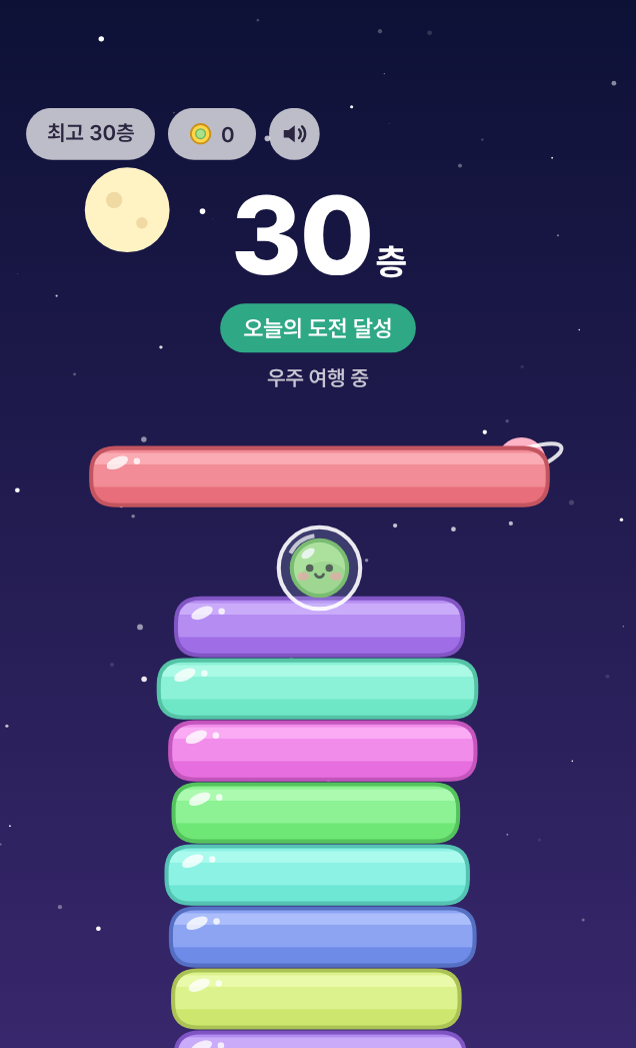
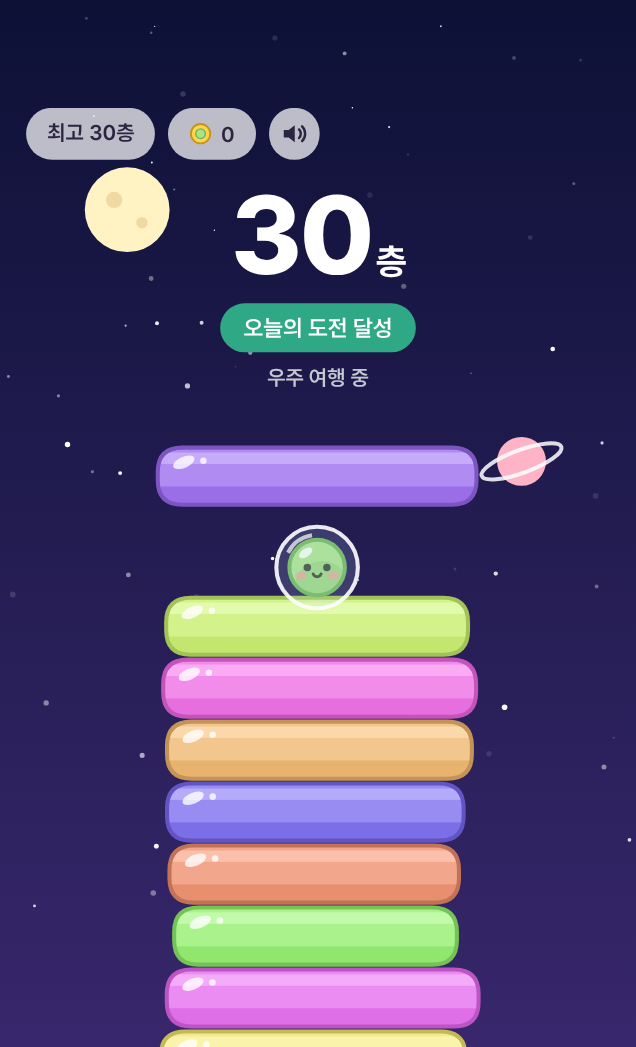
작은 화면에서 카드가 상단바를 가리던 문제 수정, 등록 스크린샷 갱신
Claude-Session: https://claude.ai/code/session_01HAryo8BdeanCWNXRxYGU2m

diff --git a/src/index.css b/src/index.css
@@ -552,3 +552,54 @@ button:focus-visible {
 .streak-bonus b {
   color: #c9921a;
 }
+
+/* 카드가 왼쪽 위 상단바(최고 기록·코인·소리)를 가리지 않게 */
+.sheet {
+  padding: calc(58px + var(--safe-top)) 16px 16px;
+  overflow-y: auto;
+}
+
+/* 키가 작은 화면에서는 카드를 조금 촘촘하게 */
+@media (max-height: 720px) {
+  .card {
+    padding: 20px 18px 18px;
+    gap: 10px;
+  }
+
+  .card h1 {
+    font-size: 32px;
+  }
+
+  .card h2 {
+    font-size: 24px;
+  }
+
+  .lead {
+    font-size: 14px;
+    line-height: 1.45;
+  }
+
+  .big {
+    font-size: 64px;
+  }
+
+  .stat {
+    padding: 8px 4px;
+  }
+}
+
+@media (max-height: 720px) {
+  .shop-preview canvas {
+    width: 80px !important;
+    height: 80px !important;
+  }
+
+  .card.shop {
+    gap: 8px;
+    padding: 16px 14px 12px;
+  }
+
+  .card.shop .grid {
+    min-height: 96px;
+  }
+}

diff --git a/docs/PROGRESS.md b/docs/PROGRESS.md
@@ -17,6 +17,9 @@
 - **연속 출석 보상**: 그날 처음 플레이할 때 연속 3일째 +10, 7일마다 +30. 시작 화면에 다음 보상(예: 연속 14일째 +30), 결과 화면에 받은 보너스 표시.
 - **0층 판은 코인 판으로 세지 않음**: 시작하자마자 실수로 끝난 판 때문에 하루 2판이 줄지 않게.
 - **살 수 있는 꾸미기 표시**: 코인으로 살 수 있는 새 물건이 있으면 '꾸미기' 버튼에 빨간 점.
+- **작은 화면 레이아웃**: 키 작은 폰(높이 720px 이하)에서 시작 카드가 상단바(최고 기록·코인·소리)를 가리던 문제 수정.
+  카드를 상단바 아래에서 시작하게 하고 글자·여백을 줄임. 꾸미기 화면도 미리보기를 줄여 닫기 버튼까지 보이게.
+- 등록 스크린샷 5장 다시 만듦(시작 화면 코인 안내, 꾸미기 새 소품)
 - **오류 수정**: 누르는 중에 앱이 가려지거나(홈으로 나감, 전화 등) 입력이 취소되면 막대가 그 자리에서 놓여 버리던 문제.
   이제는 놓지 않고 처음부터 다시 누르게 해요(`engine.ts` `cancelHold`).
 
